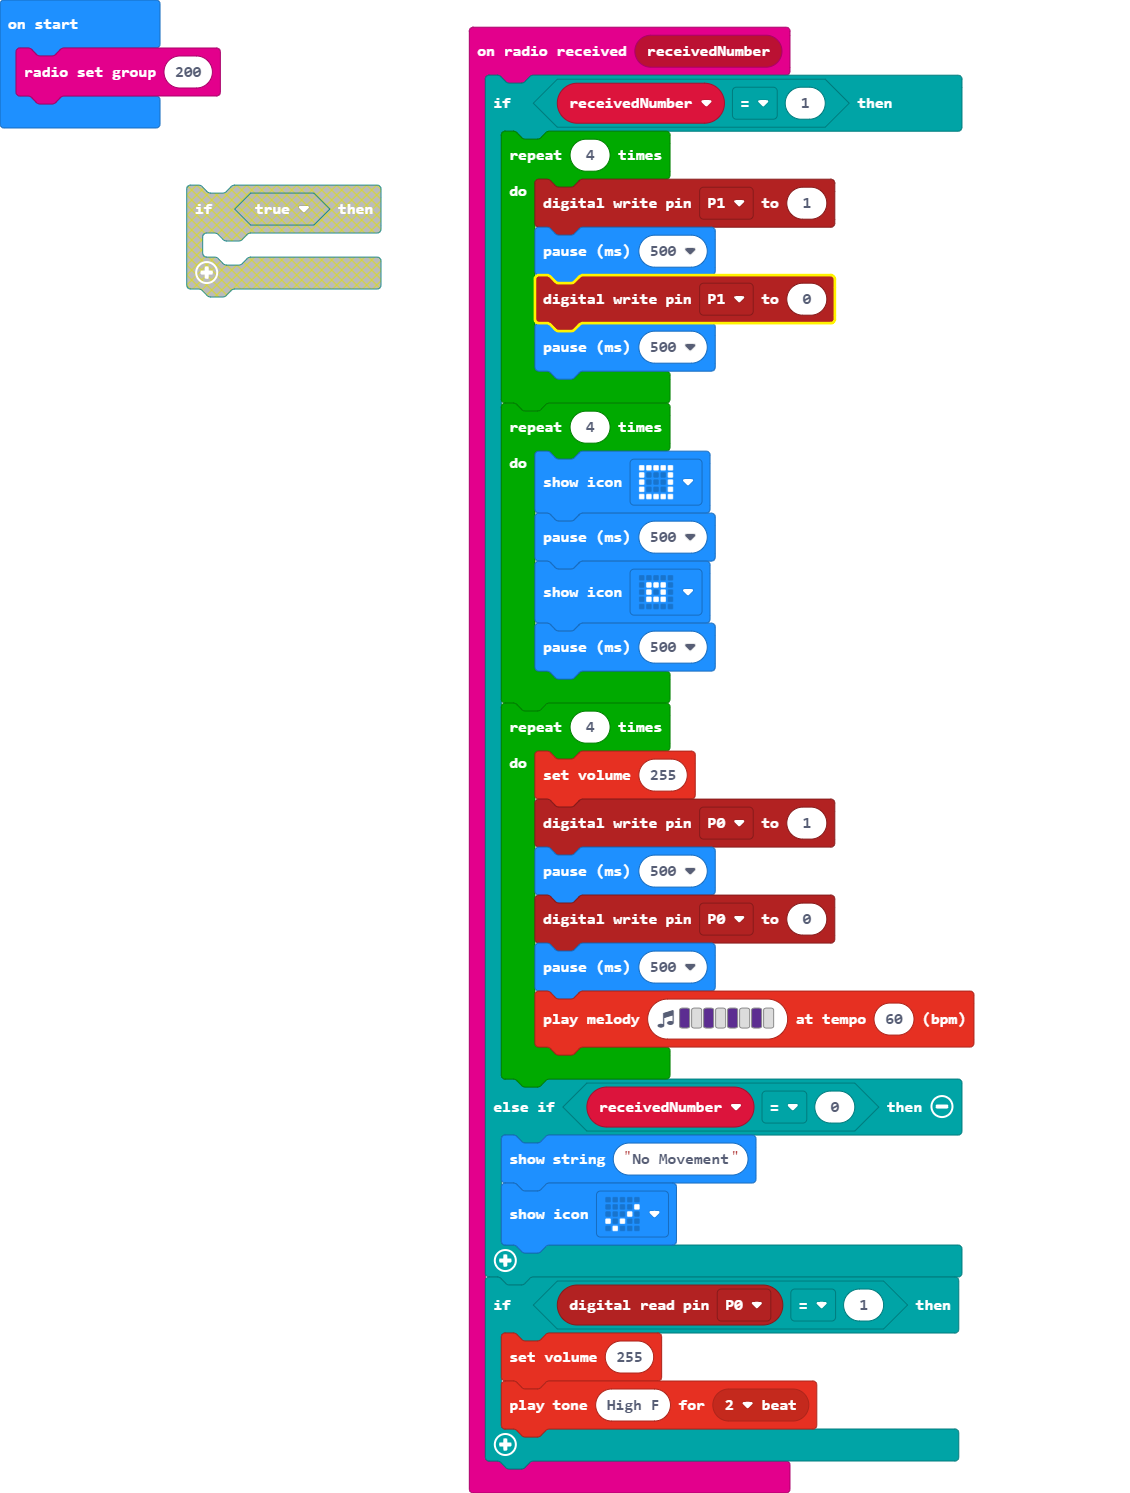
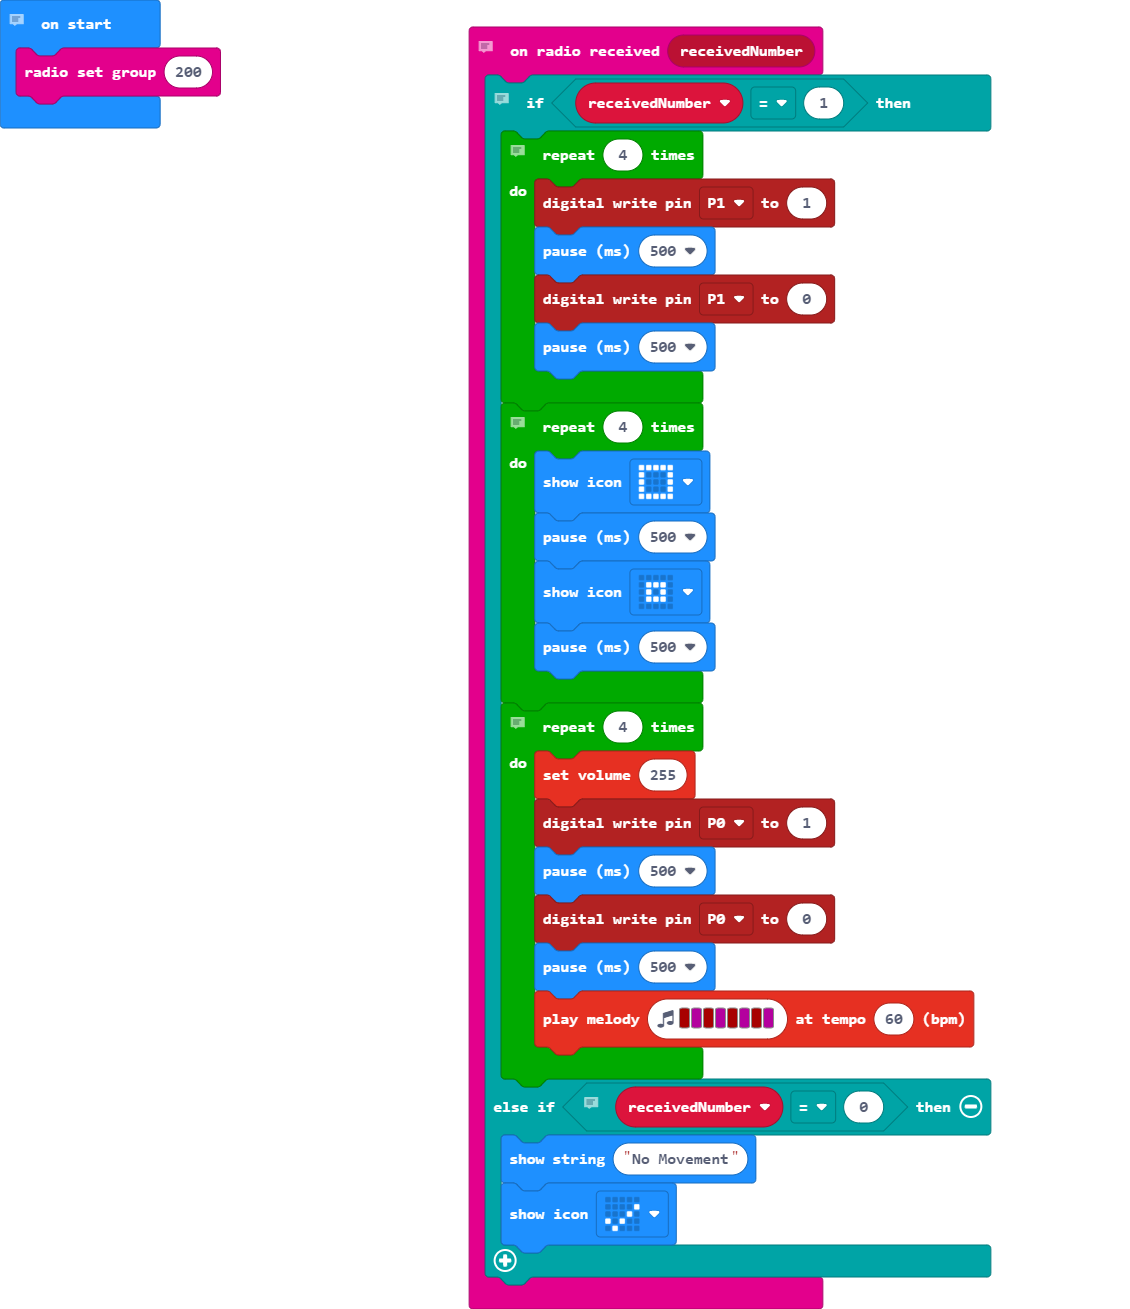
Update main.blocks, main.ts

Changed region(s): [[0.4027, 0.0, 0.8982, 1.0], [0.0, 0.0, 0.2168, 0.1222], [0.1549, 0.1222, 0.3407, 0.2139]]

diff --git a/main.ts b/main.ts
@@ -1,32 +1,35 @@
+// when the microbit receives a number from the input microbit
 radio.onReceivedNumber(function (receivedNumber) {
+    // if the microbit receives the number 1
+    // if the microbit receives the number 0 then it tells that there is no movement
     if (receivedNumber == 1) {
+        // make the LED flash 4 times
         for (let index = 0; index < 4; index++) {
             pins.digitalWritePin(DigitalPin.P1, 1)
             basic.pause(500)
             pins.digitalWritePin(DigitalPin.P1, 0)
             basic.pause(500)
         }
+        // this makes the LED on the microbit flash in and out like a visible alarm
         for (let index = 0; index < 4; index++) {
             basic.showIcon(IconNames.Square)
             basic.pause(500)
             basic.showIcon(IconNames.SmallSquare)
             basic.pause(500)
         }
+        // make the buzzer go off 4 times
         for (let index = 0; index < 4; index++) {
             music.setVolume(255)
             pins.digitalWritePin(DigitalPin.P0, 1)
             basic.pause(500)
             pins.digitalWritePin(DigitalPin.P0, 0)
             basic.pause(500)
-            music.playMelody("D - D - D - D - ", 60)
+            music.playMelody("C5 C C5 C C5 C C5 C ", 60)
         }
     } else if (receivedNumber == 0) {
         basic.showString("No Movement")
         basic.showIcon(IconNames.Yes)
     }
-    if (pins.digitalReadPin(DigitalPin.P0) == 1) {
-        music.setVolume(255)
-        music.playTone(698, music.beat(BeatFraction.Double))
-    }
 })
+// our radio group is 200
 radio.setGroup(200)
